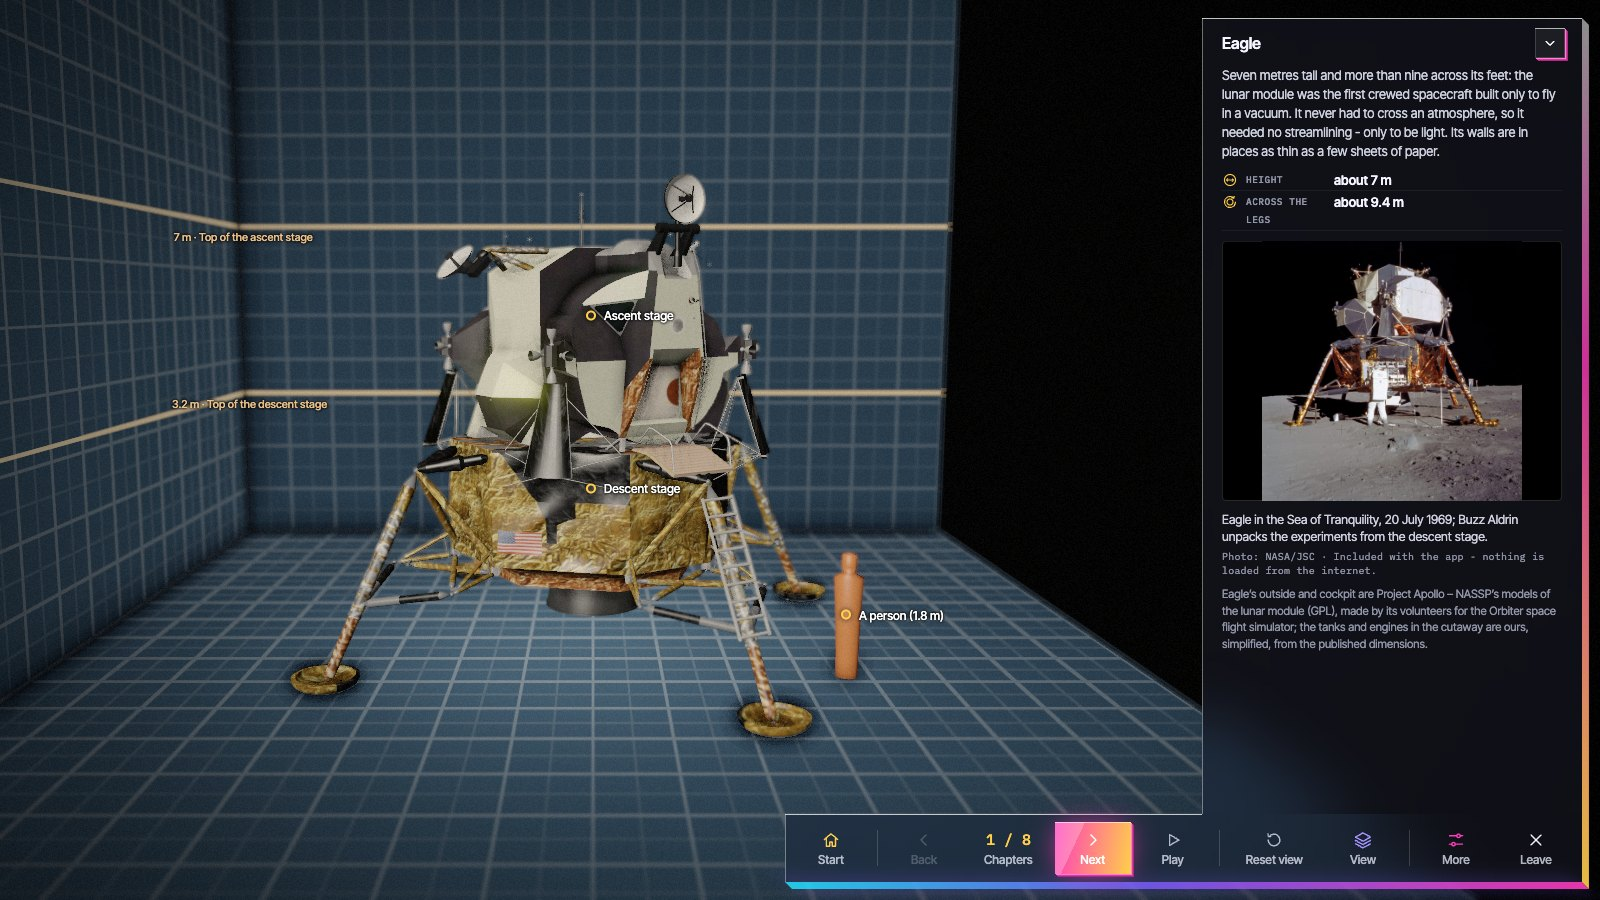
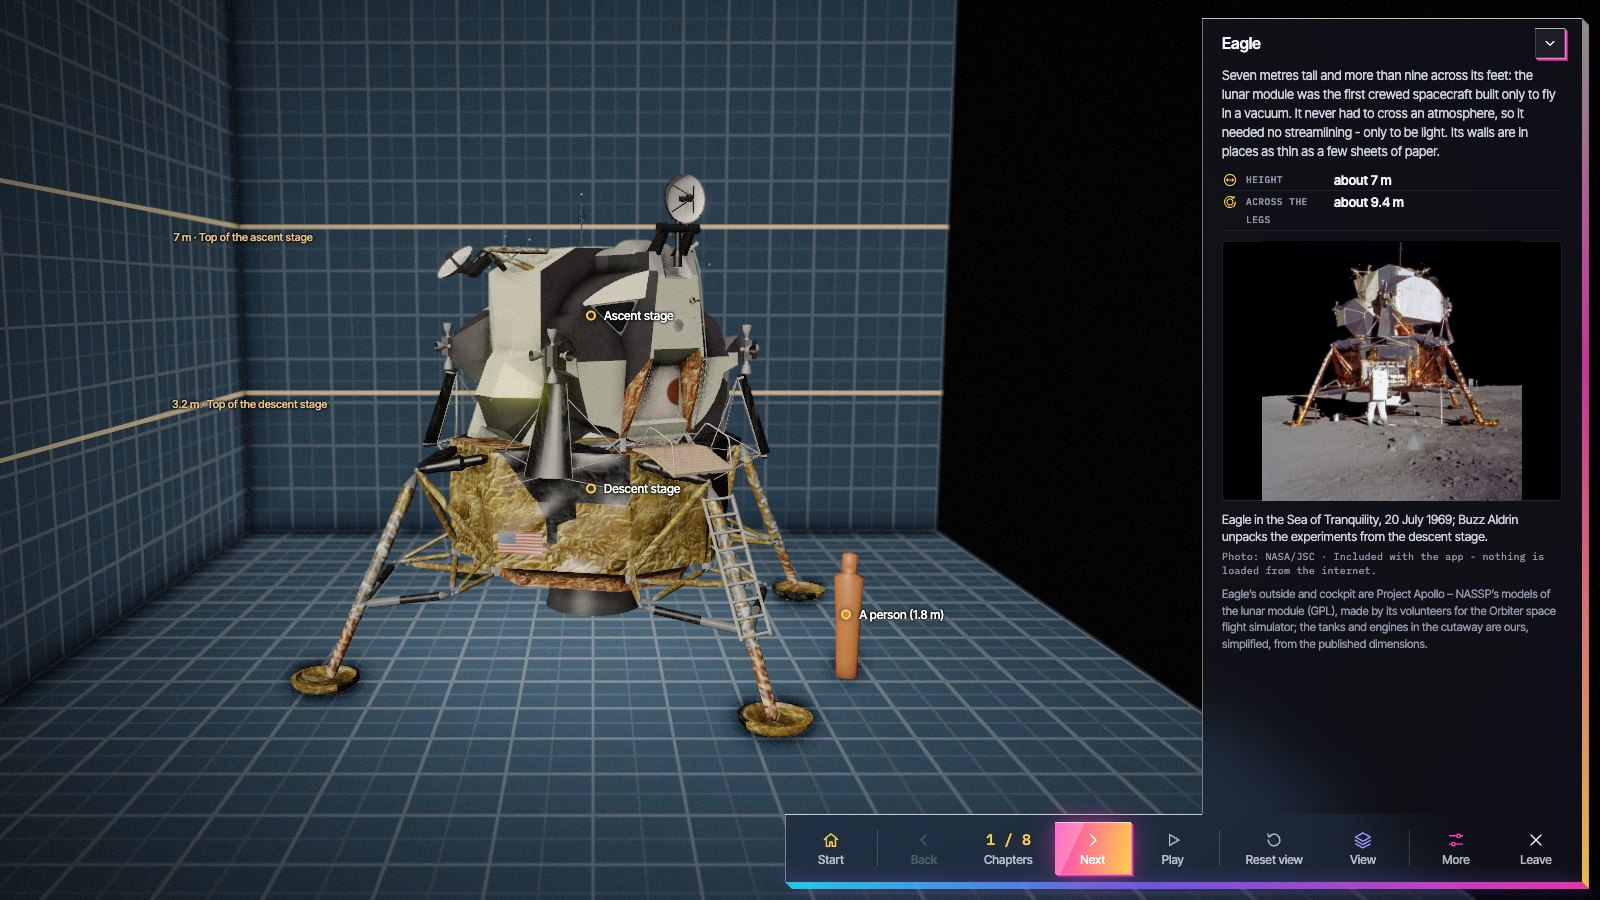
Release 0.8.0: changelog, versions, README text and pictures retaken; lint

diff --git a/packages/data-pipeline/src/apollo/lmNasspModel.ts b/packages/data-pipeline/src/apollo/lmNasspModel.ts
@@ -61,8 +61,8 @@ function flatFoil(group: LmGroup): LmGroup {
 
 // Each leg's hinge, found on its primary strut; each leg's braces', from theirs (linkHinge).
 function legHinges(struts: Map<string, [number, number, number][]>): Record<string, Hinge> {
-  const legs = Object.fromEntries(Object.entries(LEG_AZIMUTH).map(([leg, azimuth]) => [leg, foldingHinge(struts.get(leg) ?? [], azimuth)]))
-  const links = Object.keys(LEG_AZIMUTH).map((leg) => [leg.replace('leg', 'link'), linkHinge(struts.get(leg.replace('leg', 'link')) ?? [], legs[leg])])
+  const legs: Record<string, Hinge> = Object.fromEntries(Object.entries(LEG_AZIMUTH).map(([leg, azimuth]) => [leg, foldingHinge(struts.get(leg) ?? [], azimuth)]))
+  const links = Object.keys(LEG_AZIMUTH).map((leg): [string, Hinge] => [leg.replace('leg', 'link'), linkHinge(struts.get(leg.replace('leg', 'link')) ?? [], legs[leg])])
   return { ...legs, ...Object.fromEntries(links) }
 }
 

diff --git a/packages/app/scripts/screenshots.ts b/packages/app/scripts/screenshots.ts
@@ -119,7 +119,7 @@ const SHOTS: Record<string, Shot> = {
   'lesson-eagle': (page, base) => lessonAt(page, base, 'eagle', 0),
   'lesson-eagle-cockpit': (page, base) => lessonAt(page, base, 'eagle', 6),
   'lesson-launcher': (page, base) => lessonAt(page, base, 'launcher', 0),
-  'lesson-launcher-crawler': (page, base) => lessonAt(page, base, 'launcher', 9),
+  'lesson-launcher-crawler': (page, base) => lessonAt(page, base, 'launcher', 8),
   'lesson-apollo11': (page, base) => lessonAt(page, base, 'apollo11', 6),
   // More, on its Audio tab: the narrator, subtitles and the music.
   more: async (page, base) => {

diff --git a/README.md b/README.md
@@ -103,17 +103,19 @@ themselves. Look around each scene: the Voyager probe and its record from all si
 | ![The Voyager lesson at Jupiter, 1979: both probes on their real paths, Voyager 1's photo of the Great Red Spot](docs/images/lesson-jupiter.jpg) | ![Voyager in detail: the probe taken apart, each part named](docs/images/lesson-taken-apart.jpg) |
 
 And Apollo: *The Saturn V, taken apart* (the rocket to scale, its stack taken apart, each stage
-cut open), *Columbia, inside and out* (the command and service module; inside, the Smithsonian's
-3D scan of the real capsule, to walk through as the crew lay), *Eagle, the lunar module*
-(Project Apollo - NASSP's detailed model: the legs fold, the stages part, and inside you stand
-where Armstrong and Aldrin stood, before every switch of the real panels), *The Launch Tower and
-the Crawler* (the Saturn V on its mobile launcher beside the umbilical tower, its swing arms, and the
-crawler that carried it all to the pad) and *Apollo 11: to the Moon and back* (the whole mission,
-launch to splashdown, on a drawn figure eight between Earth and the Moon, with each moment's time).
+cut open), *Columbia, inside and out* (the command and service module; inside, the cabin as it flew,
+switch by switch - Project Apollo - NASSP's model - and as it is today, the Smithsonian's 3D scan of
+the real capsule), *Eagle, the lunar module* (Project Apollo - NASSP's detailed model: the legs fold,
+the stages part, and inside you stand where Armstrong and Aldrin stood, before every switch of the
+real panels), *The Launch Tower and the Crawler* (the Saturn V on its mobile launcher beside the
+umbilical tower, its swing arms, the White Room, the slide wire out, and the crawler that carried it
+all to the pad) and *Apollo 11: to the Moon and back* (the race to the Moon and the crew, then the
+whole mission, launch to splashdown and quarantine, on a drawn figure eight between Earth and the
+Moon, with each moment's time - and at five moments the voices of the people who were there).
 
 | | |
 | --- | --- |
-| ![The Saturn V lesson: the first stage cut open, its tanks and five F-1 engines](docs/images/lesson-saturn-v.jpg) | ![Columbia's cabin, the Smithsonian's scan: the main display console over the couches](docs/images/lesson-columbia.jpg) |
+| ![The Saturn V lesson: the first stage cut open, its tanks and five F-1 engines](docs/images/lesson-saturn-v.jpg) | ![Columbia's cabin as it flew (Project Apollo - NASSP's model): the Commander's flight displays on the main display console](docs/images/lesson-columbia.jpg) |
 | ![Eagle, the lunar module, in the blueprint room with a person for scale](docs/images/lesson-eagle.jpg) | ![Inside Eagle: the Commander's flight displays and the window](docs/images/lesson-eagle-cockpit.jpg) |
 | ![The Saturn V on its mobile launcher beside the umbilical tower](docs/images/lesson-launcher.jpg) | ![The crawler-transporter carrying launcher, tower and rocket](docs/images/lesson-launcher-crawler.jpg) |
 | ![Apollo 11's way to the Moon and back: the figure eight of the free return between Earth and the Moon](docs/images/lesson-apollo11.jpg) | |

diff --git a/CHANGELOG.md b/CHANGELOG.md
@@ -7,6 +7,8 @@ and this project adheres to [Semantic Versioning](https://semver.org/spec/v2.0.0
 
 ## [Unreleased]
 
+## [0.8.0] - 2026-11-22
+
 ### Added
 
 - Apollo, the lesson "The Launch Tower and the Crawler": the Saturn V on its mobile launcher beside
@@ -23,7 +25,13 @@ and this project adheres to [Semantic Versioning](https://semver.org/spec/v2.0.0
   the Moon, docking again, the service module cast off before entry - with NASA's photos and
   sketches of them. At five moments the people who were there speak after the narrator - the
   launch, "You are go for TLI", "The Eagle has landed", the first step, the liftoff from the Moon -
-  NASA's own recordings, subtitled in English and German.
+  NASA's own recordings, subtitled in English and German. It opens with the race to the Moon and
+  the crew, and ends with the quarantine - President Nixon at the trailer's window.
+- The launch tower lesson: the White Room at the hatch, the way out (the slide wire, in the model,
+  and the rubber room under the pad), the launch platform, how the crawler works - with NASA's
+  photos.
+- Columbia: the cabin as it flew, switch by switch (Project Apollo - NASSP's cockpit), for the
+  chapters inside; the Smithsonian's scan for a new chapter, Columbia today, and the crew's notes.
 
 ### Changed
 
@@ -37,6 +45,12 @@ and this project adheres to [Semantic Versioning](https://semver.org/spec/v2.0.0
 - The interface can be hidden in lessons and tours too (More, or H).
 - The Saturn V's paint shows wear: an uneven white, streaks, soot at the base; the lesson says what
   the black-and-white pattern was for. The escape tower stands on the capsule's cover.
+- Columbia's outside as in the photos: the command module's foil a mirror, the service module bare
+  aluminium with its white radiators; small RCS quads on flush panels.
+- Eagle's braces fold with its legs; the probes are stowed while folded.
+- Vehicle lessons: light from all round, matte paint, less depth-of-field blur; Columbia's cockpit
+  lit like a film set.
+- Apollo 11 close-ups hold Earth still; the entry is seen from Earth's side looking out.
 - Apollo 11's events in mission time, and its path reconstructed from the documented state vectors
   (for the coming tour).
 
@@ -44,6 +58,7 @@ and this project adheres to [Semantic Versioning](https://semver.org/spec/v2.0.0
 
 - The grand tour came home short of Earth when the clock ran fast at Realistic scale: it gave up on
   the last stop and never arrived.
+- Flicker where Columbia's command module meets the service module, and on Eagle's top deck.
 
 ## [0.7.0] - 2026-11-21
 
